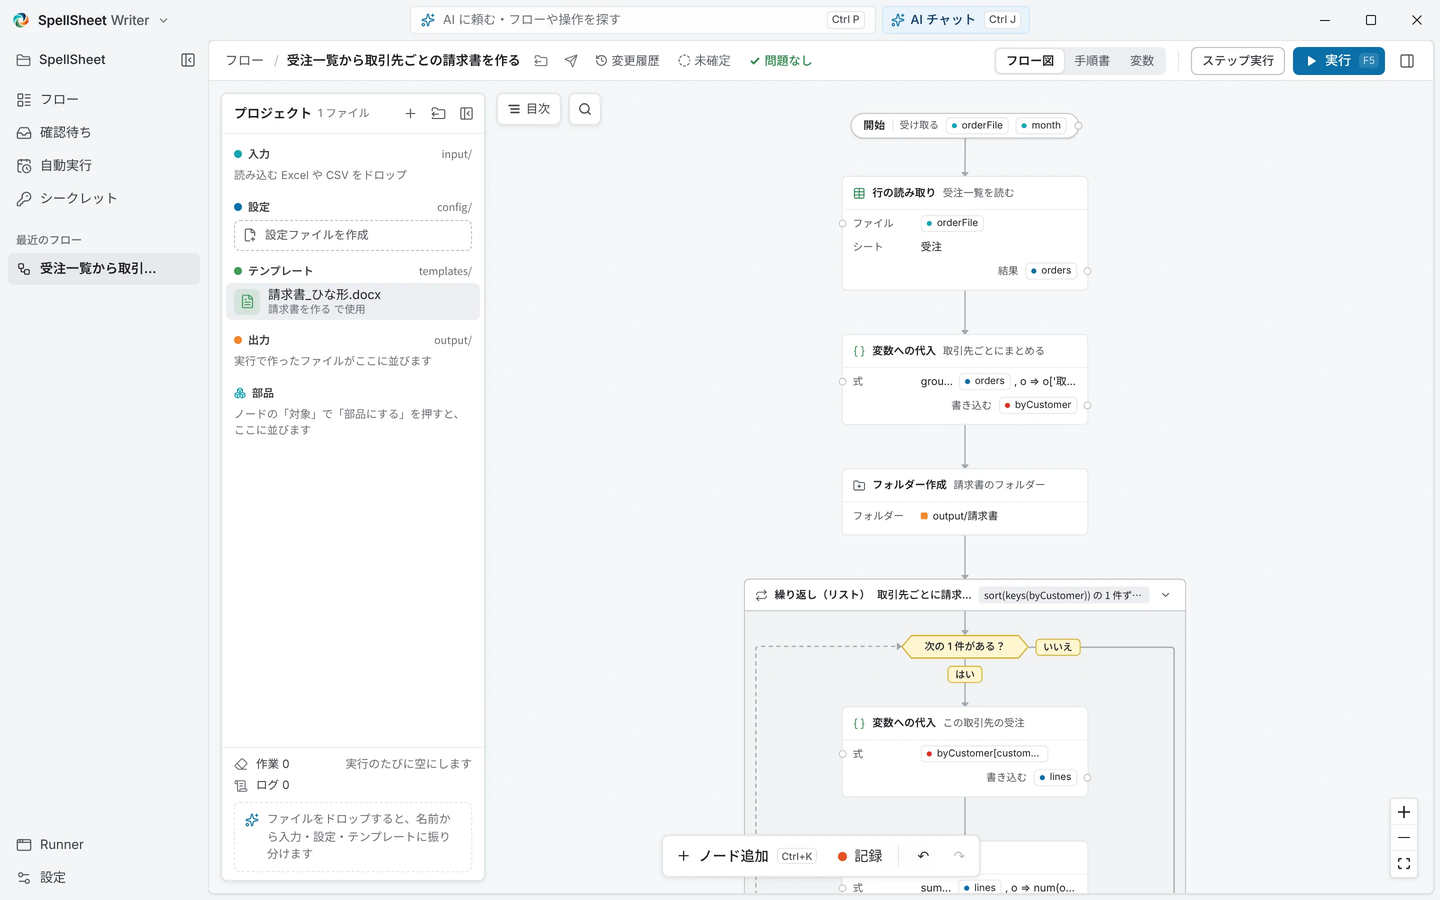
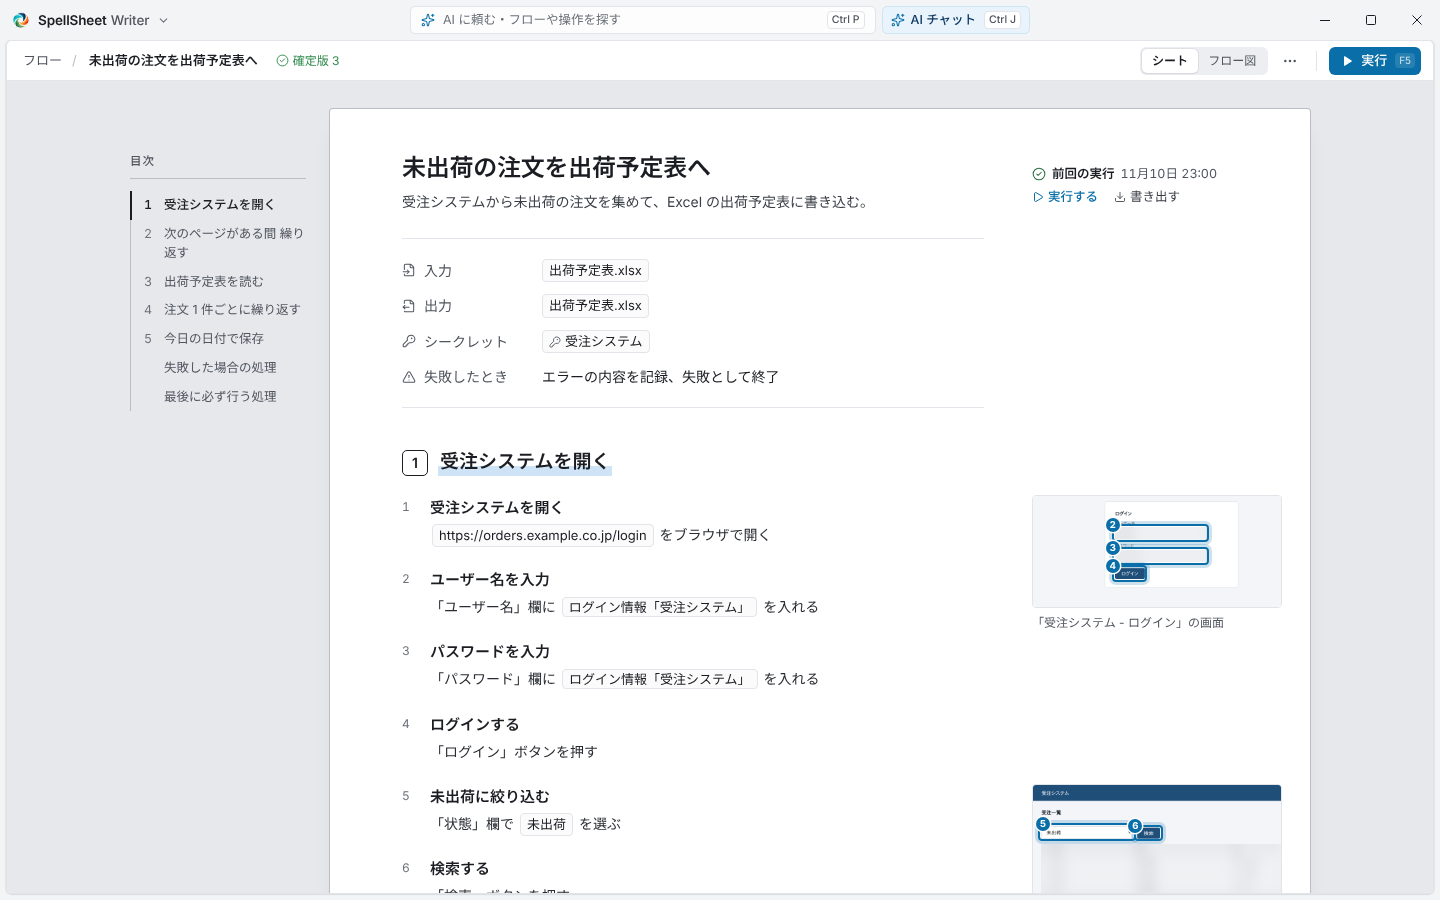
0.1.29 をリリースする
README（日本語）と製品サイトの画面を、シートの画面に差し替える。

diff --git a/site/index.html b/site/index.html
@@ -54,7 +54,7 @@
     <section class="shot-after">
       <div class="wrap">
         <div class="shot">
-          <picture><source srcset="assets/writer-dark.webp" media="(prefers-color-scheme: dark)"><img src="assets/writer.webp" width="1440" height="900" alt="SpellSheet Writer でフローを開いた画面。左にプロジェクトのファイル、中央にフロー図、上に AI への依頼欄がある"></picture>
+          <picture><source srcset="assets/writer-dark.webp" media="(prefers-color-scheme: dark)"><img src="assets/writer.webp" width="1440" height="900" alt="SpellSheet Writer でフローを開いた画面。中央に 1 枚の紙のシート、左に目次、上に AI への依頼欄がある"></picture>
         </div>
       </div>
     </section>
@@ -69,8 +69,8 @@
             <figcaption><span class="num">前</span><strong>業務の棚卸し</strong>何を自動化するか。AI が業務を聞き取り、仕事ごとの時間と、どれから作るとよいかをまとめます。</figcaption>
           </figure>
           <figure class="sheet c-green">
-            <img src="assets/sheet-manual.webp" width="900" height="827" alt="業務手順書の表紙。版・更新日・使うもの・できあがるもの・目次が並ぶ" loading="lazy">
-            <figcaption><span class="num">途中</span><strong>手順書</strong>どう動くか。フローを A4 の業務手順書にし、1 手順ずつ説明と画面の写真を並べます。</figcaption>
+            <img src="assets/sheet-manual.webp" width="900" height="827" alt="フローのシート。名前、使うファイルとシークレット、手順の文と画面の写真が並ぶ" loading="lazy">
+            <figcaption><span class="num">途中</span><strong>手順書</strong>どう動くか。フローは 1 枚の紙のシートで、1 手順ずつ説明と画面の写真が並びます。</figcaption>
           </figure>
           <figure class="sheet c-orange">
             <img src="assets/sheet-result.webp" width="900" height="827" alt="フローの実行結果のシート。出力項目、最後の画面、操作の記録が並ぶ" loading="lazy">
@@ -152,8 +152,8 @@
         <div class="feature flip c-green">
           <div>
             <p class="label">02　すべてシートで残る</p>
-            <h3>どのフローも、A4 の手順書になります</h3>
-            <p>どのフローも、A4 の手順書として開けます。1 手順ずつ、日本語の説明と操作する直前の画面の写真が並びます。業務の担当者が「この順番で合っているか」を自分の目で確かめられます。</p>
+            <h3>どのフローも、そのまま手順書になります</h3>
+            <p>フローは、開くと 1 枚の紙のシートです。1 手順ずつ、日本語の説明と操作する直前の画面の写真が並びます。業務の担当者が「この順番で合っているか」を自分の目で確かめられます。</p>
             <p>AI がフローを変えたときは、何がどう変わったかを 1 枚のレポートで確かめ、よければ「変更を承諾」します。承諾して確定した版だけが、ほかの人の実行や自動実行に使われます。</p>
             <ul class="ticks">
               <li><svg class="i"><use href="assets/icons.svg#check"/></svg>小さな直しは、その場で手で直せます</li>
@@ -162,8 +162,8 @@
             </ul>
           </div>
           <figure class="figure" style="margin:0">
-            <picture><source srcset="assets/manual-dark.webp" media="(prefers-color-scheme: dark)"><img src="assets/manual.webp" width="1440" height="900" alt="フローを A4 の手順書として表示した画面。手順ごとに説明と画面の写真が並ぶ"></picture>
-            <figcaption>手順書の表示。1 手順ずつ、説明と画面の写真が並びます</figcaption>
+            <picture><source srcset="assets/manual-dark.webp" media="(prefers-color-scheme: dark)"><img src="assets/manual.webp" width="1440" height="900" alt="フローのシート。手順ごとに説明と画面の写真が並ぶ"></picture>
+            <figcaption>シート。1 手順ずつ、説明と画面の写真が並びます</figcaption>
           </figure>
         </div>
 
@@ -228,7 +228,7 @@
           </div>
           <div class="step">
             <h3>確認・承諾</h3>
-            <p>フロー図や手順書で中身を読み、「ここから実行」で試します。違うところは AI に頼むか、その場で直します。よければ変更を承諾し、確定版にします。</p>
+            <p>シートやフロー図で中身を読み、実行して試します。違うところは AI に頼むか、その場で直します。よければ変更を承諾し、確定版にします。</p>
           </div>
           <div class="step">
             <h3>実行</h3>
@@ -245,7 +245,7 @@
         <div class="roles">
           <div class="role c-cyan">
             <div class="role-head"><svg class="i"><use href="assets/icons.svg#pencil"/></svg><b>Writer</b><span>作る人</span></div>
-            <p>AI に頼んでフローを組み、フロー図や手順書で読んで直し、確定します。インストールしてデスクトップから開くのがこの画面です。</p>
+            <p>AI に頼んでフローを組み、シートで読んで直し、確定します。インストールしてデスクトップから開くのがこの画面です。</p>
           </div>
           <div class="role c-green">
             <div class="role-head"><svg class="i"><use href="assets/icons.svg#play"/></svg><b>Runner</b><span>使う人</span></div>

diff --git a/CHANGELOG.md b/CHANGELOG.md
@@ -6,6 +6,8 @@
 
 ## 未リリース
 
+## [0.1.29] - 2026-11-11
+
 ### 主な変更
 
 - フローを開くと、まず 1 枚の紙の **シート** が出るようにしました（これまでの「手順書」の画面の代わりです）。フローの名前・入力・出力・自動実行・シークレットが上に、その下に手順が文で順に並び、前回の実行で操作した画面が余白に付きます。全体を「失敗したとき」で囲んだフローは、中の手順をそのまま読め、失敗したときと最後に必ず行う処理は紙の終わりに出ます。手順の番号は紙全体で通しになりました
@@ -13,6 +15,7 @@
 - **フロー図** を作り直しました。同じ紙・同じ見出しのまま切り替わり、列が使うアプリ、上から下が時間の流れです。繰り返しは帯、条件は「はい のときだけ」の帯、失敗したときは右端の列、同時に進める処理は横に並びます。これまでのフロー図（ノードをつないで組む画面）は **編集** として残しています
 - AI などが変えた手順は、シートの余白に「誰がいつ・なぜ・変更前の値」が出て、そこで確認済みにするか取り消せます。実行中は、今の手順にマーカーが付き、終わった手順にチェックが付きます
 - 手順書の **書き出す** は、シートの見出しの横に移しました
+- シートの左に目次が付き、今読んでいる章に印が付きます
 - シートの見出しに、フローが使うテンプレートと設定のファイル、失敗したときに行うことの行が出ます。フロー図の各行にシートと同じ番号が付き、実行中は進んだところまで印が付きます
 - 窓の左のサイドバーをなくし、紙を広く使えるようにしました。ほかのフローへは上の帯のフロー名から切り替え、確認待ち・業務の棚卸し・自動実行・シークレット・プラグインは左上の「SpellSheet Writer」のメニューから開きます。確認待ちがあるときは、その件数が左上に出ます。上の帯の切り替えは「シート／フロー図」だけにし、元に戻す・やり直す・変数・実行結果・ステップ実行・変更履歴・フローのファイル・フォルダーを開く・渡すは「そのほか」にまとめました
 - ノードを線でつないだ編集画面をなくしました。値の書き換え・手順の追加・移動・止める・削除はシートで行います。複数の手順をまとめて囲む・別のフローに切り出す、ドラッグでの並べ替え、目次、画面からの「操作を記録」は画面からなくなりました（大きな変更は AI に頼みます）。フローのファイルの一覧は、最初は閉じていて「そのほか」から開きます

diff --git a/docs/ja/mcp.md b/docs/ja/mcp.md
@@ -6,7 +6,7 @@
 
 <picture>
   <source srcset="../assets/writer-ja-dark.webp" media="(prefers-color-scheme: dark)">
-  <img src="../assets/writer-ja.webp" alt="AI の編集がそのまま Writer に反映される様子。中央にフロー図、右に AI チャット">
+  <img src="../assets/writer-ja.webp" alt="AI の編集がそのまま Writer に反映される様子。中央に 1 枚の紙のシート">
 </picture>
 
 ## 接続方法
